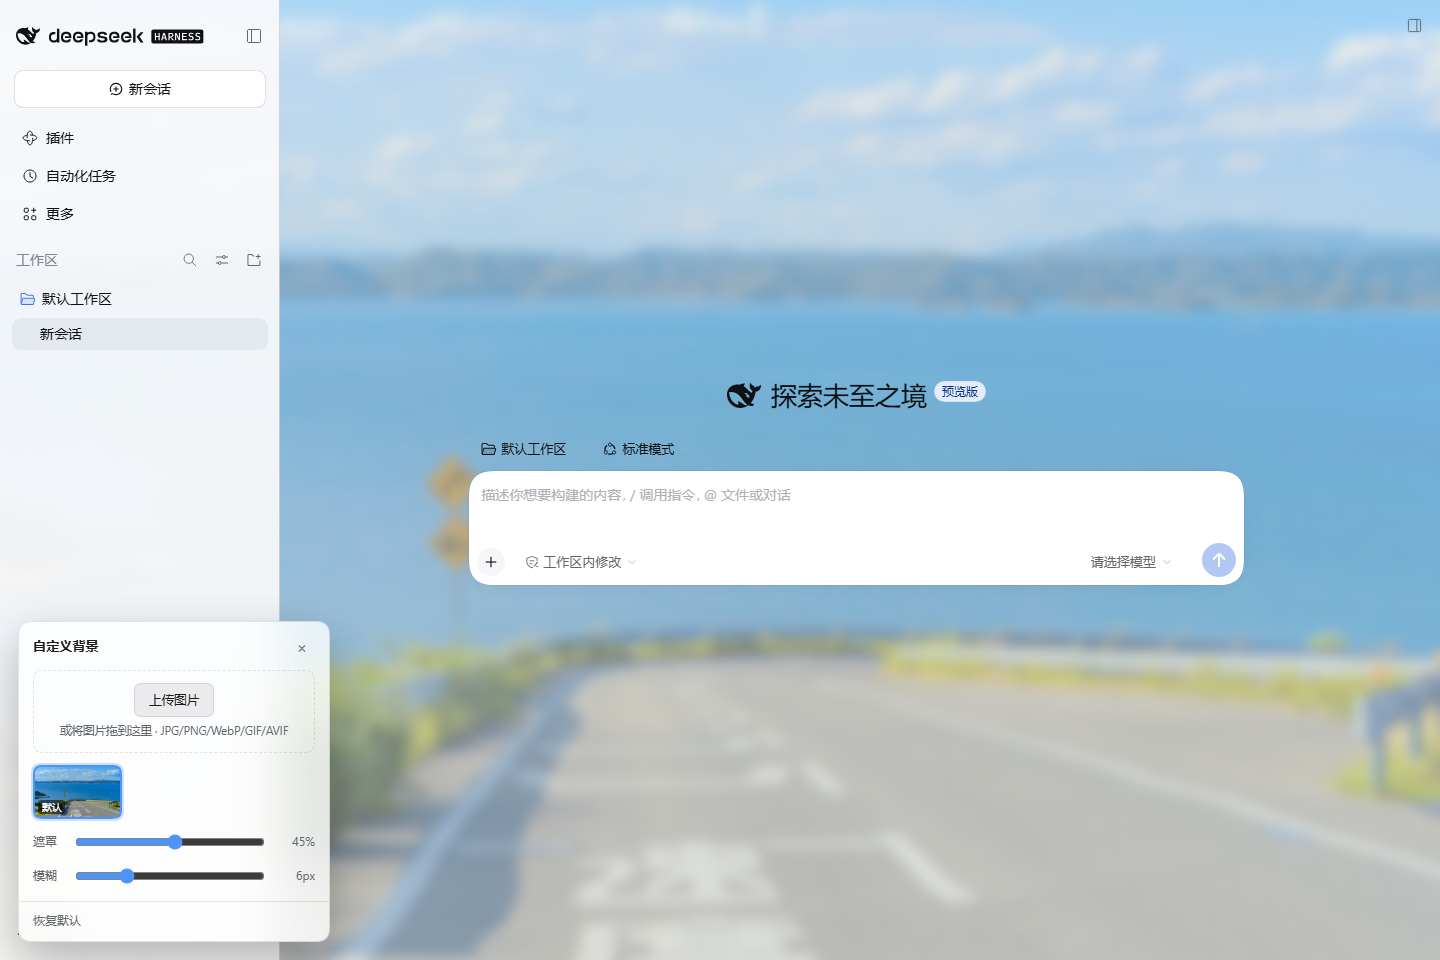
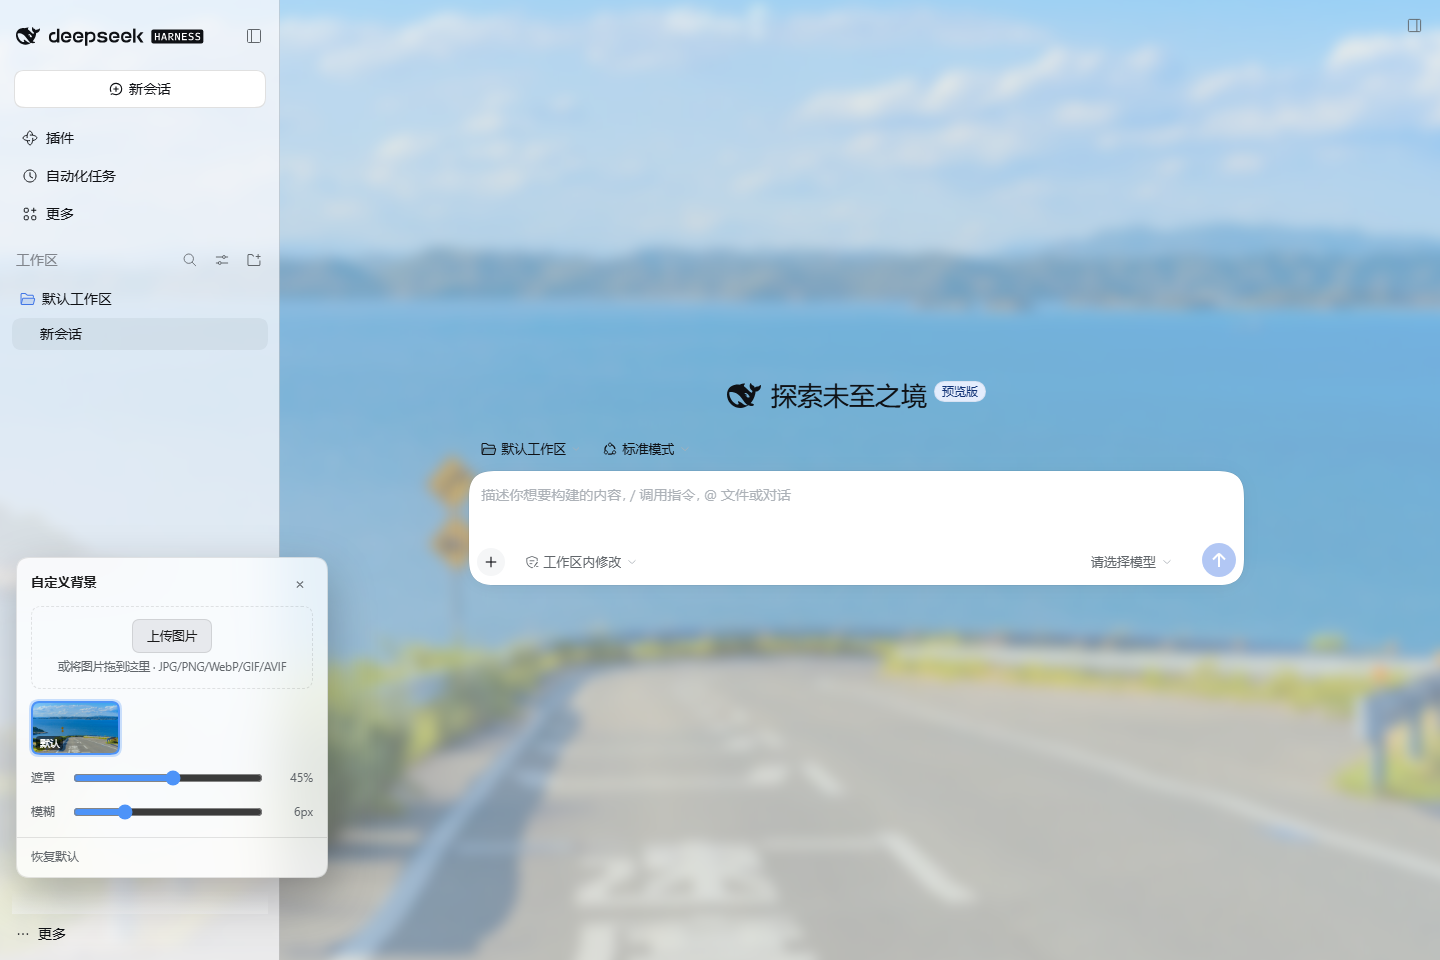
fix: 效果图象优化

Changed region(s): [[0.0, 0.5312, 0.25, 1.0]]

diff --git a/lib/client.js b/lib/client.js
@@ -34,8 +34,8 @@ html,body{background-color:transparent!important}
 body{--dsw-alias-bg-base:transparent!important}
 body:not([data-ds-dark-theme]){--cbg-surface:#ffffff;--cbg-surface-a:.78;--cbg-border:rgba(0,0,0,.10);--cbg-label:#1b1b1c;--cbg-label-dim:#61666b}
 body[data-ds-dark-theme]{--cbg-surface:#1b1b1c;--cbg-surface-a:.74;--cbg-border:rgba(255,255,255,.14);--cbg-label:#f2f3f5;--cbg-label-dim:#adb2b8}
-body:not([data-ds-dark-theme]){--dsw-specific-sidebar-fill:rgba(249,250,251,.72)!important}
-body[data-ds-dark-theme]{--dsw-specific-sidebar-fill:rgba(21,21,23,.62)!important}
+body:not([data-ds-dark-theme]){--dsw-specific-sidebar-fill:rgba(249,250,251,var(--cbg-sidebar-a,.72))!important}
+body[data-ds-dark-theme]{--dsw-specific-sidebar-fill:rgba(21,21,23,var(--cbg-sidebar-a,.62))!important}
 #${ROOT_ID}{position:fixed;left:16px;bottom:82px;z-index:2147483000;font-family:inherit;pointer-events:none;
   font-size:13px;line-height:1.45;color:var(--cbg-label)}
 #${ROOT_ID} *{box-sizing:border-box}
@@ -110,6 +110,16 @@ body[data-ds-dark-theme]{--dsw-specific-sidebar-fill:rgba(21,21,23,.62)!importan
     function scrimColor(opacity) {
       const alpha = Math.min(0.85, Math.max(0, Number(opacity) || 0))
       return isDark() ? `rgba(0,0,0,${alpha})` : `rgba(255,255,255,${alpha})`
+    }
+
+    /**
+     * Opacity of the sidebar / title-bar fill for a given scrim. At scrim 0 the
+     * shell steps aside so the wallpaper reads at full strength; the more scrim
+     * the user adds for legibility, the more the shell covers the image again.
+     */
+    function sidebarAlpha(scrim) {
+      const value = Math.min(0.85, Math.max(0, Number(scrim) || 0))
+      return Number((0.15 + value * 0.78).toFixed(3))
     }
 
     /** Build one element with attributes and children. */
@@ -197,6 +207,10 @@ body[data-ds-dark-theme]{--dsw-specific-sidebar-fill:rgba(21,21,23,.62)!importan
         wallpaper.style.filter = settings.blur > 0 ? `blur(${settings.blur}px)` : 'none'
         wallpaper.style.transform = settings.blur > 0 ? `scale(${1 + settings.blur * 0.012})` : 'none'
         scrim.style.backgroundColor = scrimColor(settings.scrim)
+        // The sidebar and the title bar paint the same translucent fill; let it
+        // follow the scrim so pushing the slider to 0 reveals the wallpaper
+        // everywhere, not just behind the chat column.
+        document.body.style.setProperty('--cbg-sidebar-a', String(sidebarAlpha(settings.scrim)))
         scrimRange.value = String(Math.round(settings.scrim * 100))
         scrimOut.textContent = `${Math.round(settings.scrim * 100)}%`
         blurRange.value = String(Math.round(settings.blur))

diff --git a/market/PUBLISH.md b/market/PUBLISH.md
@@ -1,0 +1,101 @@
+# 上架到插件市场 —— 还差的步骤
+
+结论先说：**不需要 npm，也不需要任何「发布」命令**。桌面上的「插件市场」
+（dshmarket）搜的是 [awesome-dsh-plugin](https://github.com/awesome-dsh-plugin/awesome-dsh-plugin)
+的精选目录，能被搜到的唯一条件是那份目录里有你的条目，也就是一次 PR。
+
+---
+
+## 0. 先修一个会挡路的全局配置（重要）
+
+这台机器的 `~/.gitconfig` 有一条：
+
+```
+url.https://gitclone.com.insteadof=https://
+```
+
+它把每个 `https://…` 的 git 地址改写成 `https://gitclone.com…`（镜像早已失效），
+所以 `git push`、`git clone`、以及市场里从 GitHub 安装插件（`git+https://…`）
+全都会失败——这也解释了为什么上次是网页传的代码。
+
+```powershell
+git config --global --unset url.https://gitclone.com.insteadof
+```
+
+## 1. 把这条修正接到远端（可选，但建议）
+
+你上次推的是一个压缩后的 `core init`（6b7234b），本地原本那 5 个提交不在远端，
+所以 `market/index.json` 里钉的 commit `aecfc9f` 在 GitHub 上不存在 —— 谁用这份
+索引安装都会失败。已经改成远端真实存在的 `6b7234b…`，并把 raw URL 的 `main`
+改成真实默认分支 `master`。把 patch 接上去：
+
+```powershell
+cd D:\test\ai\dsh-custom-bg
+git remote set-url origin https://github.com/wuqiwenpk/dsh-custom-bg.git
+git fetch origin master
+git reset --hard origin/master          # 丢弃本地那 5 个已废弃提交（内容已在 core init 里）
+git apply D:\test\ai\custom-bg-index-fix.patch
+git add -A
+git commit -m "fix: pin the index to a commit that exists on GitHub"
+git push origin master
+```
+
+不想用命令也行：网页上改两个字段就够 —— `market/index.json` 里
+`plugins[0].versions[0].source.commit` 改成 `6b7234ba87e7b2327af4a5c83c6f1395511d7b9b`；
+`market/awesome-dsh-plugin.yml` 里 `icon` 的 `/main/` 改成 `/master/`。
+
+## 2. 给仓库加 topic
+
+```powershell
+gh repo edit wuqiwenpk/dsh-custom-bg --add-topic dsh-plugin
+```
+
+没有 `gh` 就网页：仓库首页 → About 右侧齿轮 → Topics 填 `dsh-plugin` → Save。
+
+## 3. 等满 1 天
+
+仓库创建于 **2026-10-30 09:57**（+08），CI 会查「至少 1 天」，
+所以 **2026-10-31 09:57 之后**再提 PR 才不会被自动判失败。
+
+## 4. 提交收录 PR
+
+```powershell
+# 先网页 Fork：https://github.com/awesome-dsh-plugin/awesome-dsh-plugin/fork
+git clone https://github.com/wuqiwenpk/awesome-dsh-plugin.git
+cd awesome-dsh-plugin
+New-Item -ItemType Directory -Force data\plugins | Out-Null
+Copy-Item D:\test\ai\dsh-custom-bg\market\awesome-dsh-plugin.yml data\plugins\wuqiwenpk__dsh-custom-bg.yml
+git checkout -b add-dsh-custom-bg
+git add data/plugins/wuqiwenpk__dsh-custom-bg.yml
+git commit -m "Add wuqiwenpk/dsh-custom-bg"
+git push -u origin add-dsh-custom-bg
+```
+
+然后开 PR（不用 gh 也行）：
+
+<https://github.com/awesome-dsh-plugin/awesome-dsh-plugin/compare/main...wuqiwenpk:add-dsh-custom-bg>
+
+PR 标题：`Add wuqiwenpk/dsh-custom-bg`
+PR 正文：
+
+> Bottom-left floating panel that uploads and switches background images, with
+> scrim and blur sliders and a bundled `default.jpg`. Declares `dsh.bundle`
+> (`cordis.patch.yml`) and `dsh.client` (web), so it installs with
+> `dsh plugin add git+https://github.com/wuqiwenpk/dsh-custom-bg.git`.
+
+规则要求「一个 PR 只加一个文件」：`data/plugins/<owner>__<repo>.yml`，
+不要手工改 README（合并后由脚本重建）。
+
+## 5. 合并之后
+
+目录重建后，在 设置 → 插件市场 → 刷新目录（或重启应用），
+搜 `custom-bg` / `背景` / `wallpaper` 就能看到并一键安装。
+
+---
+
+## 更正上一轮的一句
+
+我上一轮说的「加自建索引源」在这台机器上**用不了**：那入口属于官方的
+`@deepseek-ai/dsh-plugin-market`（Discover），而你这套 Desktop 的 profile 里只有
+`dshmarket`，没有那个包。索引文件我保留了（格式已用 DSH 自带校验器验证过），
+但对你当前这套环境，PR 是唯一能让它出现在市场里的路径。

diff --git a/README.zh.md b/README.zh.md
@@ -12,12 +12,16 @@
 - **默认背景随包分发**——`imgs/default.jpg` 开箱即用，Host 直接从包里读，不依赖网络
 - **上传即生效**——面板里选文件，或者把图片拖进面板；支持 JPG / PNG / WebP / GIF / AVIF，单张上限 24 MB
 - **多图留档**——上传过的图片都在面板里以缩略图排列，点一下即切换，悬停可删除；重复上传同一张图片只占一份
-- **遮罩与模糊**——两档滑块解决「壁纸太花看不清字」：遮罩 0–85%，模糊 0–24px
+- **遮罩与模糊**——两档滑块解决「壁纸太花看不清字」：遮罩 0–85%，模糊 0–24px。遮罩同时决定侧栏与标题栏的不透明度：拉到 0 时它们一起让开，壁纸铺满整窗，而不只是聊天区
 - **跟随浅色 / 深色主题**——遮罩颜色随主题在白色与黑色之间切换，面板本身也是主题化的毛玻璃
 - **跨刷新持久化**——选中的图片、遮罩、模糊都存在 `$DSH_HOME/plugin-data/dsh-custom-bg/state.json`
 - **无第三方依赖**——Host 只用了 Node 内置模块，浏览器半侧是原生 DOM，没有 React、没有打包器
 
 ![深色主题](docs/panel-dark.png)
+
+遮罩与模糊都拉到 0：侧栏、标题栏、聊天区一起透明，壁纸保持原始清晰度。
+
+![遮罩与模糊为 0](docs/panel-zero.jpg)
 
 ## 安装
 

diff --git a/README.md b/README.md
@@ -15,12 +15,17 @@ has something to show the moment it is enabled.
 - **Bundled default background** — `imgs/default.jpg` is served straight from the package, no network needed.
 - **Upload and apply** — pick a file or drop an image onto the panel. JPG, PNG, WebP, GIF and AVIF up to 24 MB.
 - **Keep several images** — every upload stays as a thumbnail; click to switch, hover to delete. Re-uploading the same bytes stores it once.
-- **Scrim and blur** — two sliders keep text readable: scrim 0–85%, blur 0–24px.
+- **Scrim and blur** — two sliders keep text readable: scrim 0–85%, blur 0–24px. The scrim also drives the sidebar and title bar: at 0 they step aside and the wallpaper fills the whole window, not just the chat column.
 - **Follows light and dark** — the scrim flips between white and black with the theme, and the panel itself is themed glass.
 - **Persists across reloads** — the active image and both sliders live in `$DSH_HOME/plugin-data/dsh-custom-bg/state.json`.
 - **No third-party runtime** — the Host half uses Node built-ins only; the browser half is plain DOM.
 
 ![Dark theme](docs/panel-dark.png)
+
+Scrim and blur at 0: sidebar, title bar and chat column all step aside, and the
+wallpaper keeps its native sharpness.
+
+![Scrim and blur at zero](docs/panel-zero.jpg)
 
 ## Install
 

diff --git a/market/README.md b/market/README.md
@@ -9,7 +9,8 @@
 `index.json` 是插件市场格式 1 的索引，已用 DSH 自带的校验器验证通过。
 
 1. 打开 **插件 → 发现（Discover）→ 索引源（Index sources）**
-2. 添加：`https://raw.githubusercontent.com/wuqiwenpk/dsh-custom-bg/main/market/index.json`
+2. 添加：`https://raw.githubusercontent.com/wuqiwenpk/dsh-custom-bg/master/market/index.json`
+   （仓库默认分支是 `master`，不是 `main`）
 3. 在发现页搜索 `背景`、`wallpaper`、`custom-bg`，即可看到并一键安装
 
 这条路径用自己的源，装的是本仓库当前 HEAD（`market/index.json` 里 pin 的 commit）。
